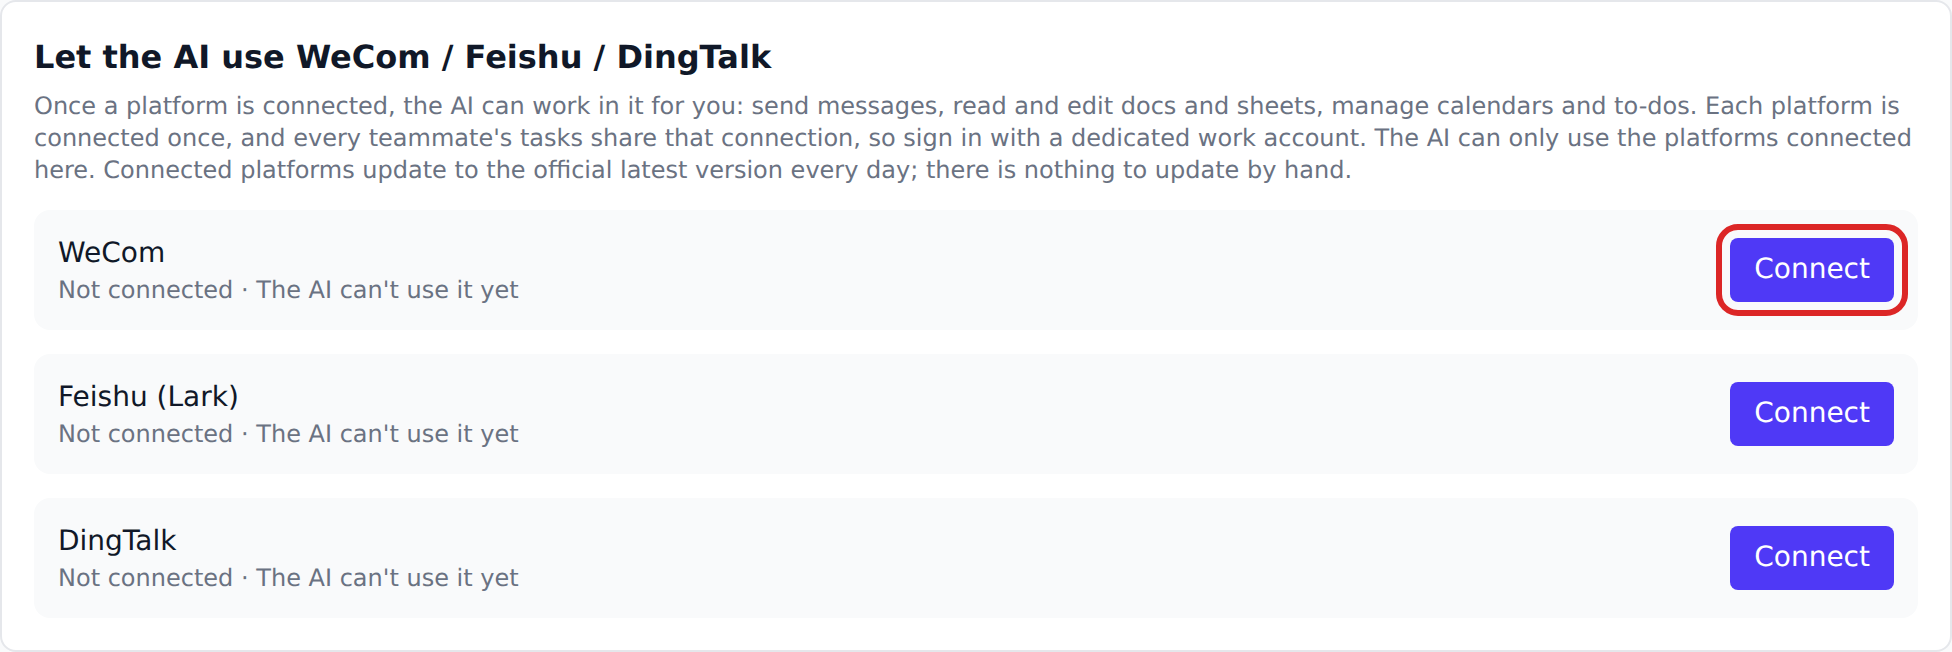
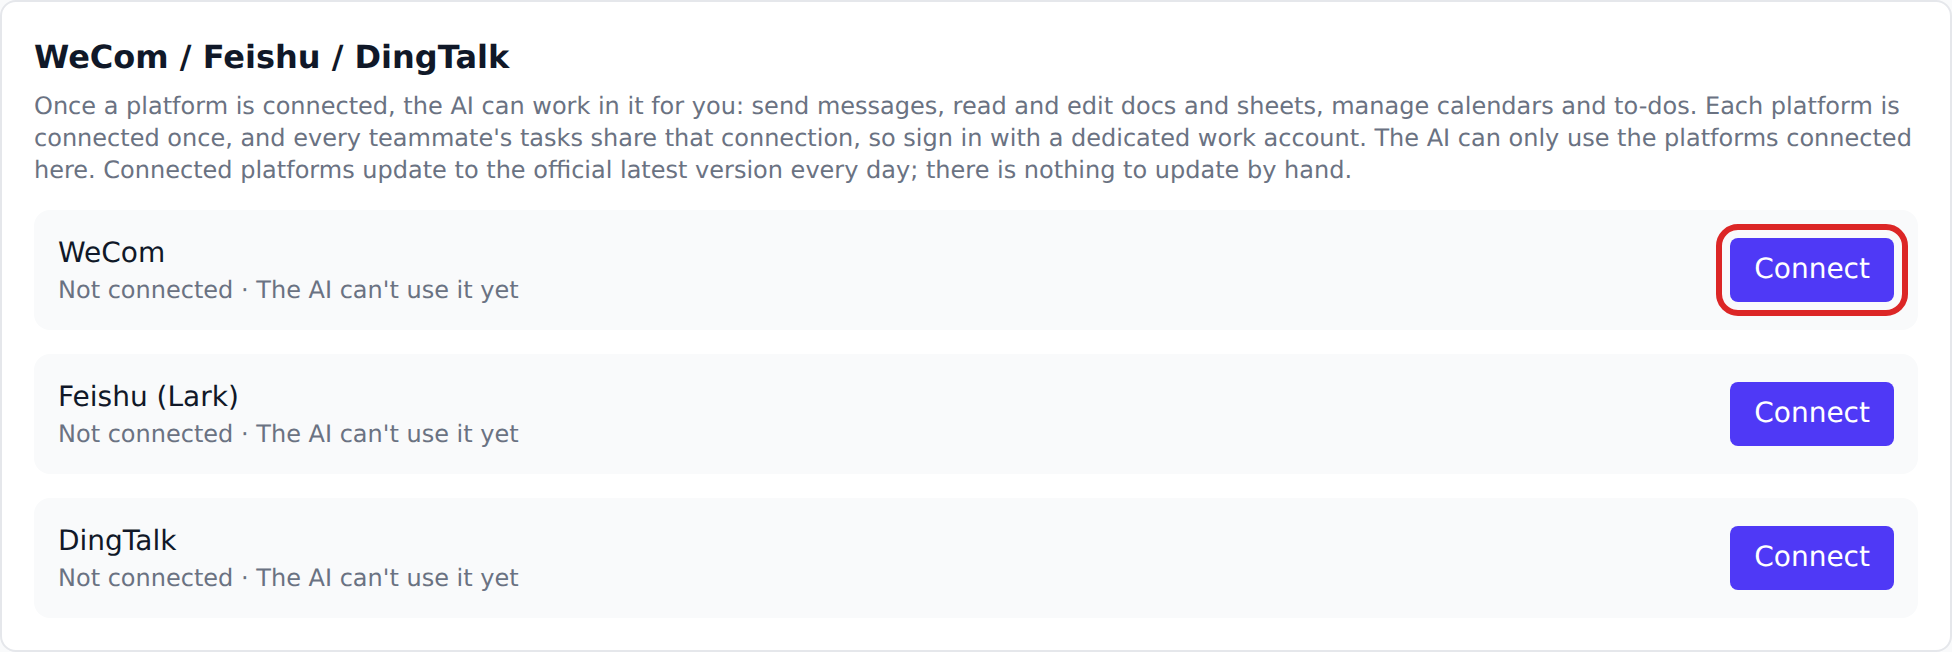
ui(integrations): shorter card title; API key popup gets a close button
- The card is titled 企业微信 / 飞书 / 钉钉 (WeCom / Feishu / DingTalk);
  docs that point at it follow, and its two screenshots are re-taken.
- The API key popup: a close button at the top right, in a header that
  stays in view while the snippets scroll; the localhost warning keeps
  only its first sentence.
- Docs: a FAQ entry on the overview and the chat-bot page — what a chat
  bot does (post to one group, no sign-in) versus connecting WeCom /
  Feishu / DingTalk (an authorized account, read and write).

Changed region(s): [[0.0, 0.0613, 0.4062, 0.1227]]

diff --git a/frontend/src/components/settings/ApiTokenCreatedModal.tsx b/frontend/src/components/settings/ApiTokenCreatedModal.tsx
@@ -350,12 +350,25 @@ export function ApiTokenCreatedModal({ token, onClose }: Props) {
         data-testid="api-token-created-panel"
         className="max-h-[85vh] w-full max-w-2xl overflow-y-auto rounded-lg bg-white p-6 shadow-xl outline-none"
       >
-        <h2
-          id="api-token-created-title"
-          className="text-lg font-semibold text-gray-900"
-        >
-          {t('apiTokens.createdTitle')}
-        </h2>
+        {/* Sticky, so the title and the close button stay in view while
+            the long list of tool snippets scrolls under them. */}
+        <div className="sticky -top-6 z-10 -mx-6 -mt-6 flex items-start justify-between gap-3 bg-white px-6 pb-1 pt-6">
+          <h2
+            id="api-token-created-title"
+            className="text-lg font-semibold text-gray-900"
+          >
+            {t('apiTokens.createdTitle')}
+          </h2>
+          <button
+            onClick={onClose}
+            aria-label={t('common.close')}
+            title={t('common.close')}
+            data-testid="api-token-created-close"
+            className="-mr-1 rounded p-1 text-gray-400 hover:bg-gray-100 hover:text-gray-600"
+          >
+            <svg className="h-5 w-5" fill="none" viewBox="0 0 24 24" stroke="currentColor"><path strokeLinecap="round" strokeLinejoin="round" strokeWidth={2} d="M6 18L18 6M6 6l12 12" /></svg>
+          </button>
+        </div>
         <p className="mt-2 text-sm text-amber-700">{t('apiTokens.createdOnce')}</p>
 
         <div className="mt-4">

diff --git a/frontend/src/__tests__/apiTokensPanel.test.tsx b/frontend/src/__tests__/apiTokensPanel.test.tsx
@@ -228,6 +228,19 @@ describe('ApiTokensPanel', () => {
   })
 })
 
+describe('ApiTokenCreatedModal — close', () => {
+  it('the close button at the top right closes it', () => {
+    const onClose = vi.fn()
+    render(
+      <I18nextProvider i18n={i18nTestInstance}>
+        <ApiTokenCreatedModal token="vst_secret" onClose={onClose} />
+      </I18nextProvider>,
+    )
+    fireEvent.click(screen.getByTestId('api-token-created-close'))
+    expect(onClose).toHaveBeenCalledTimes(1)
+  })
+})
+
 describe('ApiTokenCreatedModal — keyboard focus', () => {
   it('takes focus on open and gives it back on close', () => {
     const opener = document.createElement('button')

diff --git a/frontend/src/components/settings/WorkplaceCliPanel.tsx b/frontend/src/components/settings/WorkplaceCliPanel.tsx
@@ -4,7 +4,7 @@ import { api } from '../../api'
 import { LONG_TIMEOUT_MS } from '../../lib/requestDeadline'
 
 /** Settings → Integrations: the official WeCom / Feishu / DingTalk CLIs.
- *  (Shown to users as "Let the AI use WeCom / Feishu / DingTalk" — the
+ *  (Shown to users as "WeCom / Feishu / DingTalk" — the
  *  page never says CLI; see integrations.cli in the locales.)
  *
  *  One row per platform. "Connect" downloads the CLI, runs its login

diff --git a/docs/integrations.en.md b/docs/integrations.en.md
@@ -6,7 +6,7 @@ description: Integrations overview — what Vibe Seller can connect to, where ea
 
 Vibe Seller itself only schedules and executes. Getting into a store, reading mail, posting to a group or making an image all need an external service hooked up. This page answers three things: **what you can connect**, **where you configure it**, and **how they differ from each other**.
 
-Configuration lives in three places: `Settings → Integrations` (six cards, in this order: ads, API keys, chat bots, WeCom / Feishu / DingTalk CLIs, Google Workspace, TickTick), `Settings → Email` (its own tab), and `Settings → AI` (image generation is the card at the bottom).
+Configuration lives in three places: `Settings → Integrations` (six cards, in this order: ads, API keys, chat bots, WeCom / Feishu / DingTalk, Google Workspace, TickTick), `Settings → Email` (its own tab), and `Settings → AI` (image generation is the card at the bottom).
 
 ## What you can connect
 
@@ -16,7 +16,7 @@ Configuration lives in three places: `Settings → Integrations` (six cards, in 
 | **Vibe Seller Ads API** | Ads work without clicking a browser: reports, bids, budgets, structure. Amazon stores only for now | `Settings → Integrations → Vibe Seller Ads API`, then "**Authorize**" on each store's row under "Stores" | Follows the store — one authorization per store (two marketplaces of one store need two), and only an admin can authorize or revoke; this install's service key is minted by the service on first use, you never type one | Reads and writes, but only inside the advertiser account this store authorized; changes land only on rows you approved | [Ads API setup](ads-api.en.md) |
 | **Email (IMAP / SMTP)** | Inbox syncs to local storage every 5 minutes; the AI searches mail, sorts it, drafts replies and sends them | `Settings → Email` → "**+ Add Email**" | The mailbox rows are install-wide (who added one is only a record), then linked to stores from the mailbox card or `Settings → Stores`; which mailboxes a task can see depends on what its store is linked to | **Read**: the synced mail. **Send**: the "**Email sending permission**" switch on each mailbox card, on by default — only a signed-in human can flip it, the AI cannot | [Email setup](email.en.md) |
 | **Chat bots (WeCom / DingTalk / Feishu / Slack)** | Pushes task results and alerts into a group channel (sending files works on WeCom only) | `Settings → Integrations → Chat bots (WeCom / DingTalk / Feishu / Slack)` → "**Add Bot**" | Shared across the install, not per store; the platform is detected from the webhook URL you paste | Outbound only: it can post messages and files; reading the group back isn't wired up | [Chat bots](chat-bots.en.md) |
-| **WeCom / Feishu / DingTalk** | The AI uses each vendor's official program to write docs and sheets, send messages, schedule events and create to-dos | `Settings → Integrations → Let the AI use WeCom / Feishu / DingTalk` → "**Connect**" on the platform's row; only an admin can connect, sign in or disable | One signed-in account per platform for the whole install; each platform is enabled separately and agents see only the enabled ones | Reads and writes within that account's permissions; messages and document changes only when the task asks | [Overview](workplace-cli.en.md) · [WeCom](workplace-cli-wecom.en.md) · [Feishu](workplace-cli-feishu.en.md) · [DingTalk](workplace-cli-dingtalk.en.md) |
+| **WeCom / Feishu / DingTalk** | The AI uses each vendor's official program to write docs and sheets, send messages, schedule events and create to-dos | `Settings → Integrations → WeCom / Feishu / DingTalk` → "**Connect**" on the platform's row; only an admin can connect, sign in or disable | One signed-in account per platform for the whole install; each platform is enabled separately and agents see only the enabled ones | Reads and writes within that account's permissions; messages and document changes only when the task asks | [Overview](workplace-cli.en.md) · [WeCom](workplace-cli-wecom.en.md) · [Feishu](workplace-cli-feishu.en.md) · [DingTalk](workplace-cli-dingtalk.en.md) |
 | **Dida365 / TickTick** | The AI can see your lists and write to-dos into them | `Settings → Integrations → Dida365 / TickTick` → the five-step wizard, ending with "**Authorize**" | One connection for the whole install; you may pin one default list, and if you don't the AI reaches all of your projects | Reads and writes your own lists and tasks | [TickTick](ticktick.en.md) |
 | **Google Workspace** | Sheets, Drive, Gmail, Docs and Calendar as a bundle: 19 sub-skills installed under one umbrella | `Settings → Integrations → Google Workspace` → switch on "**Enable**". The gws CLI has to be installed and signed in on this machine first, and only an admin can flip this | One switch for the whole install; every task shares the same authorization | Whatever you granted, read and write — there are no per-product switches | [Google Workspace](google-workspace.en.md) |
 | **AI image generation** | Product hero images and infographics, or editing an image against a reference | `Settings → AI → Vision (Image Generation)` → paste the kie.ai API key → "**Save**". Only an admin can enter the key | One key for the whole install | Only on request inside a task, and nothing is generated until you press "Generate" on the review card | [Below](#ai-image-generation) |

diff --git a/docs/workplace-cli.en.md b/docs/workplace-cli.en.md
@@ -42,8 +42,7 @@ Open the link the AI sends you in WeCom, and this is the document it made:
 
 Only Vibe Seller **admins** can connect, sign in again and disable.
 
-1. Open **Settings → Integrations**, find **Let the AI use WeCom /
-   Feishu / DingTalk** and click **Connect** on the platform's row:
+1. Open **Settings → Integrations**, find **WeCom / Feishu / DingTalk** and click **Connect** on the platform's row:
 
     ![Before connecting: one row per platform, each with a Connect button](images/workplace_card_off_en.png)
 
@@ -127,6 +126,18 @@ win over the official text:
   documents only when the task asks for it.
 
 ## FAQ
+
+<details markdown="1"><summary><b>How is a chat bot different from connecting WeCom / Feishu / DingTalk?</b></summary>
+
+|  | Chat bot | Connecting WeCom / Feishu / DingTalk |
+|---|---|---|
+| How you set it up | Paste the group bot's webhook URL — no sign-in, no authorization | An admin scans a QR code or opens a link and authorizes once |
+| What the AI can do | Only post messages to the one group the bot is in (WeCom bots can also send files) | Work fully within the authorized account's permissions: read and write docs, sheets, calendars, to-dos and mail, and send messages |
+| Can it read anything? | No, it only posts | Yes — what the authorized account can see |
+| Good for | Pushing task results, daily reports and reminders into a fixed group | Having the AI actually work on the platform: write docs, tidy sheets, schedule events, message people |
+
+Who it can message directly: see [Who the AI can message](#who-the-ai-can-message). You can use both: for example, the AI writes a document in WeCom, then the chat bot posts its link to your operations group.
+</details>
 
 <details markdown="1"><summary><b>The download failed?</b></summary>
 

diff --git a/docs/chat-bots.md b/docs/chat-bots.md
@@ -131,6 +131,18 @@ Vibe Seller 粘贴并测试。差别只在入口位置和安全设置。
 
 ## 常见问题
 
+<details markdown="1"><summary><b>群机器人和开通企业微信 / 飞书 / 钉钉，有什么区别？</b></summary>
+
+|  | 群机器人 | 开通企业微信 / 飞书 / 钉钉 |
+|---|---|---|
+| 怎么接入 | 粘贴群里机器人的 Webhook 地址就行，不用登录、不用授权 | 管理员扫码或打开链接，授权一次 |
+| AI 能做什么 | 只能往这个机器人所在的群里发消息通知（企业微信还能发文件） | 在授权账号的权限范围内完整使用：读写文档、表格、日程、待办、邮件，发消息 |
+| 能读内容吗 | 不能，只能发 | 能，读取授权账号能看到的数据 |
+| 适合 | 把任务结果、日报、提醒推送到固定的群 | 让 AI 在平台上真正干活：写文档、整理表格、排日程、给人发消息 |
+
+开通的步骤见[企业微信 / 飞书 / 钉钉](workplace-cli.md)。两者可以同时用：比如 AI 先在企业微信里写好文档，再用群机器人把链接推到运营群。
+</details>
+
 <details markdown="1"><summary><b>测试失败，提示是什么意思？</b></summary>
 
 测试失败时，页面会显示平台返回的原文，括号里是平台的错误码。常见的有：

diff --git a/docs/chat-bots.en.md b/docs/chat-bots.en.md
@@ -145,6 +145,18 @@ too if you no longer want it.
 
 ## FAQ
 
+<details markdown="1"><summary><b>How is a chat bot different from connecting WeCom / Feishu / DingTalk?</b></summary>
+
+|  | Chat bot | Connecting WeCom / Feishu / DingTalk |
+|---|---|---|
+| How you set it up | Paste the group bot's webhook URL — no sign-in, no authorization | An admin scans a QR code or opens a link and authorizes once |
+| What the AI can do | Only post messages to the one group the bot is in (WeCom bots can also send files) | Work fully within the authorized account's permissions: read and write docs, sheets, calendars, to-dos and mail, and send messages |
+| Can it read anything? | No, it only posts | Yes — what the authorized account can see |
+| Good for | Pushing task results, daily reports and reminders into a fixed group | Having the AI actually work on the platform: write docs, tidy sheets, schedule events, message people |
+
+To connect, see [WeCom / Feishu / DingTalk](workplace-cli.en.md). You can use both: for example, the AI writes a document in WeCom, then the chat bot posts its link to your operations group.
+</details>
+
 <details markdown="1"><summary><b>What do the test errors mean?</b></summary>
 
 The Test button shows the platform's own reply; the platform's error

diff --git a/docs/workplace-cli-wecom.en.md b/docs/workplace-cli-wecom.en.md
@@ -14,8 +14,7 @@ meetings, creates to-dos and sends you messages. The overview is at
 You need a WeCom account (a company or a team you set up yourself can
 both register) and a Vibe Seller admin account.
 
-1. Open Vibe Seller **Settings → Integrations** and, under **Let the AI
-   use WeCom / Feishu / DingTalk**, click **Connect** on the WeCom row.
+1. Open Vibe Seller **Settings → Integrations** and, under **WeCom / Feishu / DingTalk**, click **Connect** on the WeCom row.
    The first time it downloads WeCom's official program (about 5 MB),
    usually in a few seconds.
 2. A QR code appears. Scan it with the WeCom app (it is valid for 5
